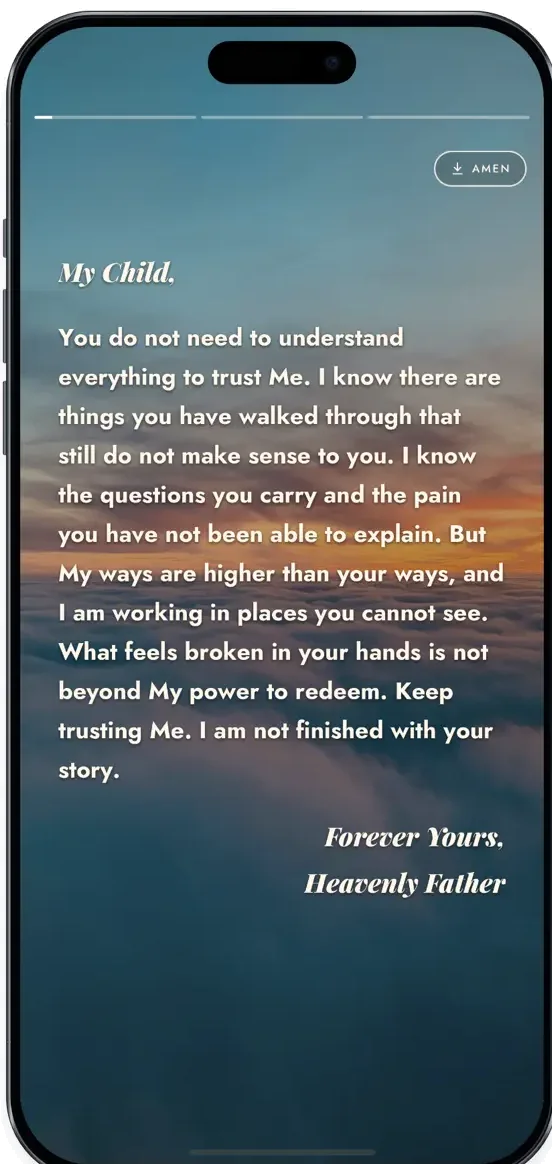
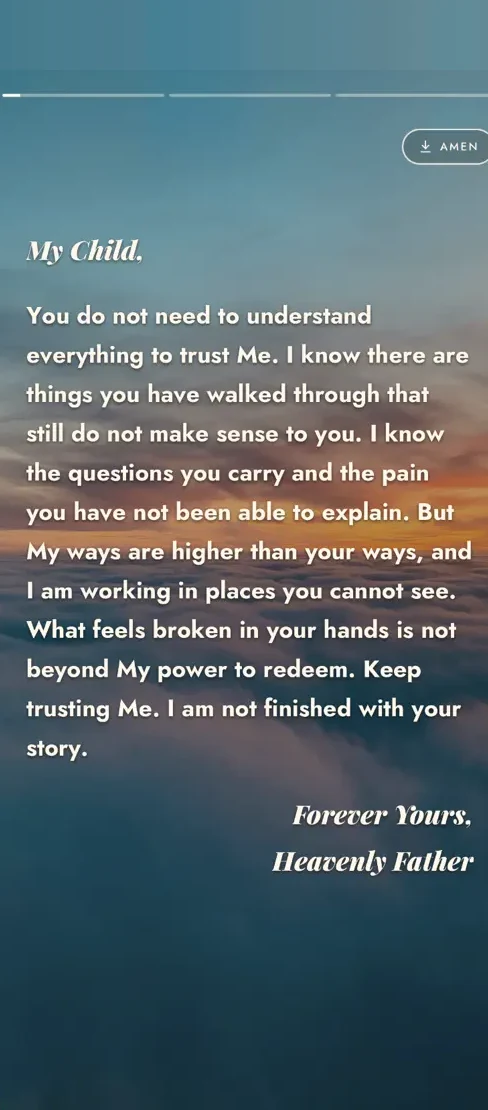
Homepage: iPhone frame and refined layout

diff --git a/Forever Yours Website/home.css b/Forever Yours Website/home.css
@@ -1,17 +1,41 @@
-.h-hero,.h-book,.h-author,.h-letter{max-width:1080px;margin:0 auto;padding:96px 24px}
-.h-hero{display:grid;grid-template-columns:1.1fr .9fr;gap:64px;align-items:center;padding-top:72px}
-.h-hero h1{font:600 clamp(40px,6vw,72px)/1.05 var(--font-serif,Georgia),serif;letter-spacing:-.02em;color:#141210;margin:0 0 40px}
+:root{--ink:#16130f;--soft:rgba(22,19,15,.62);--line:rgba(22,19,15,.08);--bg:#f7f4ef}
+body{background:var(--bg);-webkit-font-smoothing:antialiased}
+main{overflow:hidden}
+.h-hero,.h-book,.h-author,.h-letter{max-width:1120px;margin:0 auto;padding:128px 32px}
+.h-hero{display:grid;grid-template-columns:1fr 1fr;gap:48px;align-items:center;padding-top:96px;padding-bottom:120px;position:relative}
+.h-hero h1{font:500 clamp(44px,6.2vw,84px)/1.02 var(--font-serif,"Cormorant Garamond",Georgia),serif;letter-spacing:-.025em;color:var(--ink);margin:0 0 44px;max-width:9.5ch}
 .h-badges{display:flex;flex-wrap:wrap;gap:12px}
-.h-shot{width:100%;max-width:340px;height:auto;justify-self:center;filter:drop-shadow(0 30px 60px rgba(20,18,16,.18))}
-.h-book,.h-author{display:grid;grid-template-columns:auto 1fr;gap:56px;align-items:center;border-top:1px solid rgba(20,18,16,.08)}
-.h-book img{width:240px;height:auto}
-.h-author img{width:120px;height:120px;border-radius:50%;object-fit:cover}
-.h-book h2,.h-author h2{font:600 clamp(28px,3.5vw,40px)/1.15 var(--font-serif,Georgia),serif;margin:0 0 12px;color:#141210}
-.h-book p,.h-author p{font-size:17px;line-height:1.6;color:rgba(20,18,16,.7);max-width:520px;margin:0 0 24px}
+.h-badges .store-badge{background:var(--ink);color:#fff;border-radius:14px;padding:11px 20px 11px 16px;min-width:0;box-shadow:0 1px 0 rgba(255,255,255,.08) inset,0 8px 24px rgba(22,19,15,.14);transition:transform .2s ease,box-shadow .2s ease}
+.h-badges .store-badge:hover{transform:translateY(-1px);background:#000;box-shadow:0 12px 30px rgba(22,19,15,.2)}
+.h-badges .store-badge-text small{font-size:10px;letter-spacing:.02em;text-transform:none;opacity:.7}
+.h-badges .store-badge-text strong{font-size:17px;letter-spacing:-.01em}
+/* iPhone 16 Pro style frame */
+.iph{position:relative;justify-self:center;width:min(330px,78vw);aspect-ratio:71.5/149.6;border-radius:17.5%/8.4%;padding:3px;background:linear-gradient(145deg,#d9d6d0 0%,#8f8b84 22%,#e7e4de 46%,#77736c 70%,#c9c5be 100%);box-shadow:0 0 0 1px rgba(0,0,0,.18),0 50px 100px -20px rgba(22,19,15,.35),0 30px 60px -30px rgba(22,19,15,.4)}
+.iph::before{content:"";position:absolute;inset:-18% -30%;z-index:-1;background:radial-gradient(closest-side,rgba(214,170,120,.32),rgba(120,150,180,.12) 55%,transparent 75%);filter:blur(10px)}
+.iph-bezel{width:100%;height:100%;border-radius:inherit;background:#050505;padding:4.2%;box-shadow:0 0 0 1px rgba(255,255,255,.06) inset}
+.iph-screen{position:relative;width:100%;height:100%;border-radius:14.4%/6.6%;overflow:hidden;background:#3d6278}
+.iph-screen img{display:block;width:100%;height:100%;object-fit:cover}
+.iph-island{position:absolute;top:2.3%;left:50%;transform:translateX(-50%);width:33%;height:3.9%;background:#000;border-radius:999px}
+.iph-time{position:absolute;top:2.5%;left:11%;font:600 13px/1 -apple-system,"SF Pro Text",system-ui,sans-serif;color:#fff;letter-spacing:-.01em}
+.iph-btn{position:absolute;width:3px;background:linear-gradient(90deg,#6f6b64,#b9b5ae);border-radius:2px}
+.iph-a{left:-2px;top:18%;height:6%}.iph-b{left:-2px;top:27%;height:10%}.iph-c{left:-2px;top:39%;height:10%}.iph-d{right:-2px;top:30%;height:15%}
+.h-book,.h-author{display:grid;grid-template-columns:280px 1fr;gap:80px;align-items:center;border-top:1px solid var(--line)}
+.h-book img{width:220px;height:auto;justify-self:center;filter:drop-shadow(0 30px 40px rgba(22,19,15,.18))}
+.h-author{grid-template-columns:280px 1fr}
+.h-author img{width:112px;height:112px;border-radius:50%;object-fit:cover;justify-self:center}
+.h-book h2,.h-author h2{font:500 clamp(30px,3.4vw,44px)/1.1 var(--font-serif,"Cormorant Garamond",Georgia),serif;letter-spacing:-.02em;margin:0 0 14px;color:var(--ink)}
+.h-book p,.h-author p{font:400 18px/1.6 Jost,system-ui,sans-serif;color:var(--soft);max-width:30em;margin:0 0 32px;letter-spacing:-.005em}
 .h-author p{margin:0}
-.h-btn,.h-letter button{display:inline-block;background:#141210;color:#fff;border:0;border-radius:999px;padding:14px 26px;font:500 15px/1 Jost,system-ui,sans-serif;text-decoration:none;cursor:pointer}
-.h-letter{border-top:1px solid rgba(20,18,16,.08);padding:64px 24px}
-.h-letter form{display:flex;gap:12px;max-width:480px}
-.h-letter input[type=email]{flex:1;min-width:0;padding:14px 18px;border:1px solid rgba(20,18,16,.18);border-radius:999px;font:400 15px Jost,system-ui,sans-serif;background:#fff}
+.h-btn,.h-letter button{display:inline-block;background:var(--ink);color:#fff;border:0;border-radius:999px;padding:15px 26px;font:500 15px/1 Jost,system-ui,sans-serif;text-decoration:none;cursor:pointer;transition:background .2s}
+.h-btn:hover,.h-letter button:hover{background:#000}
+.h-letter{border-top:1px solid var(--line);padding:96px 32px;display:flex;justify-content:center}
+.h-letter form{display:flex;gap:10px;width:100%;max-width:460px;padding:6px;background:#fff;border-radius:999px;box-shadow:0 0 0 1px var(--line),0 10px 30px rgba(22,19,15,.06)}
+.h-letter input[type=email]{flex:1;min-width:0;padding:12px 18px;border:0;background:transparent;font:400 16px Jost,system-ui,sans-serif;outline:none}
 .h-letter .hp-field{display:none}
-@media(max-width:760px){.h-hero{grid-template-columns:1fr;gap:40px;padding-top:40px;text-align:center}.h-badges{justify-content:center}.h-hero h1{margin-bottom:28px}.h-book,.h-author{grid-template-columns:1fr;gap:28px;text-align:center;padding:64px 24px}.h-book img{width:200px;margin:0 auto}.h-author img{margin:0 auto}.h-book p,.h-author p{margin-left:auto;margin-right:auto}.h-letter form{margin:0 auto}}
+.email-success{text-align:center;color:var(--soft)}
+@media(max-width:820px){
+.h-hero{grid-template-columns:1fr;gap:64px;padding:56px 24px 88px;text-align:center}
+.h-hero h1{margin:0 auto 32px}.h-badges{justify-content:center}
+.h-book,.h-author{grid-template-columns:1fr;gap:32px;text-align:center;padding:88px 24px}
+.h-book img{width:180px}.h-book p,.h-author p{margin-left:auto;margin-right:auto}.h-book p{margin-bottom:28px}
+.h-letter{padding:72px 24px}}

diff --git a/Forever Yours Website/index.html b/Forever Yours Website/index.html
@@ -70,7 +70,7 @@
 <nav class="jn" aria-label="Main"><div class="jn-in"><a href="/" class="jn-logo"><img src="/logo-text.png" alt="Jesus Forever Yours" width="160" height="22"></a><ul><li><a href="/" aria-current="page">Home</a></li><li><a href="/#app">App</a></li><li><a href="/digital">Book</a></li><li><a href="/verses/">Verses</a></li><li><a href="/contact">Contact</a></li></ul></div></nav>
 <main>
   <section class="h-hero" id="app">
-    <div>
+    <div class="h-copy">
       <h1>A daily love letter from God.</h1>
       <div class="h-badges">
         <a href="https://apps.apple.com/us/app/jesus-forever-yours/id6758735416" target="_blank" rel="noopener" class="store-badge" aria-label="Download Jesus Forever Yours on the App Store">
@@ -83,7 +83,13 @@
         </a>
       </div>
     </div>
-    <img class="h-shot" src="/images/app-screen.webp" alt="A love letter from God in the Jesus Forever Yours app" width="552" height="1164">
+    <div class="iph" role="img" aria-label="The Jesus Forever Yours app showing a love letter from God">
+      <span class="iph-btn iph-a"></span><span class="iph-btn iph-b"></span><span class="iph-btn iph-c"></span><span class="iph-btn iph-d"></span>
+      <div class="iph-bezel"><div class="iph-screen">
+        <img src="/images/app-screen.webp" alt="" width="488" height="1110">
+        <span class="iph-time">9:41</span><span class="iph-island"></span>
+      </div></div>
+    </div>
   </section>
 
   <section class="h-book" id="book">
